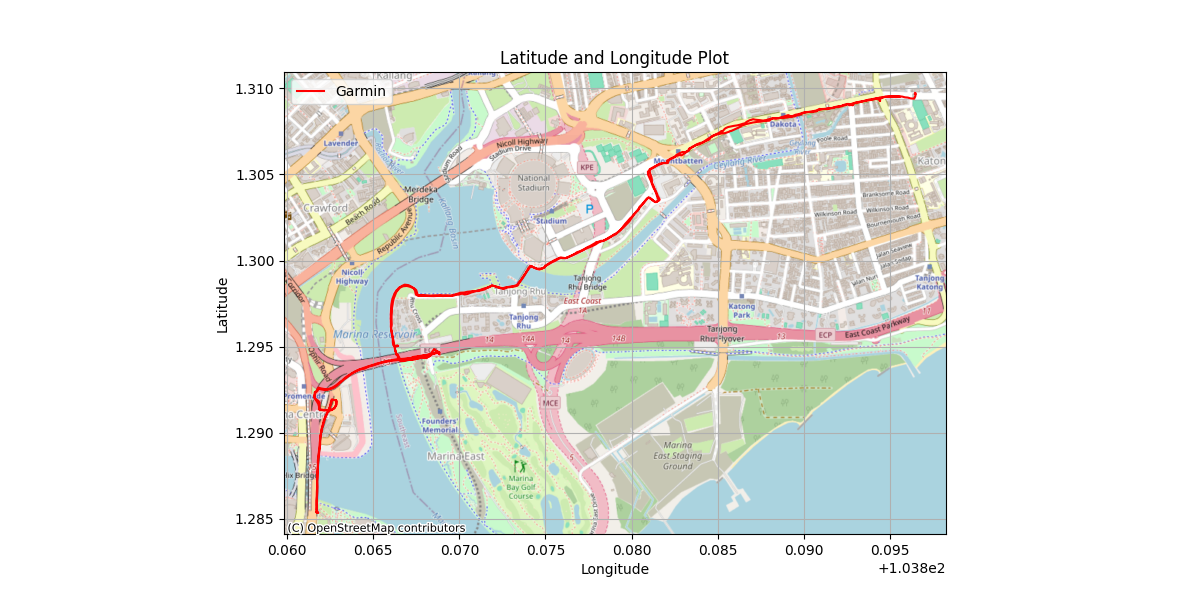
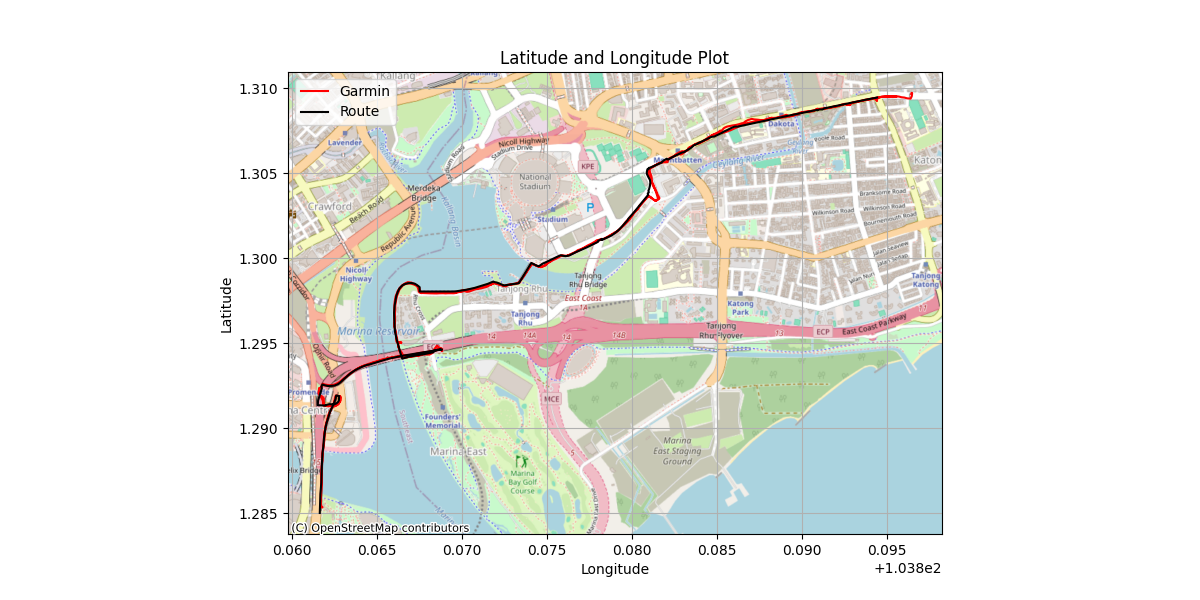
Make graphs more clear

Changed region(s): [[0.185, 0.12, 0.8017, 0.93], [0.6475, 0.9, 0.8017, 0.96], [0.5858, 0.9, 0.6167, 0.93]]

diff --git a/scripts/plots.py b/scripts/plots.py
@@ -6,6 +6,8 @@ import pandas as pd
 import matplotlib.pyplot as plt
 import contextily as ctx
 
+from pytz import timezone
+
 def parse_gpx(filepath):
   gpx_file = open(filepath, 'r')
   gpx = gpxpy.parse(gpx_file)
@@ -14,8 +16,9 @@ def parse_gpx(filepath):
   for track in gpx.tracks:
     for segment in track.segments:
       for point in segment.points:
+        time = point.time.astimezone(timezone('Asia/Singapore')) if point.time else None
         data.append({
-          'time': point.time,
+          'time': time,
           'latitude': point.latitude, 
           'longitude': point.longitude,
           'elevation': point.elevation,
@@ -25,9 +28,10 @@ def parse_gpx(filepath):
   
   return df
 
-def plot_location(df, label, color, output_dir, filename):
+def plot_location(df, route_df, label, color, output_dir, filename):
   plt.figure(figsize=(12, 6))
   plt.plot(df['longitude'], df['latitude'], color=color, linestyle='-', label=label)
+  plt.plot(route_df['longitude'], route_df['latitude'], color='black', linestyle='-', label='Route')
   ctx.add_basemap(plt.gca(), crs='EPSG:4326', source=ctx.providers.OpenStreetMap.Mapnik)
   plt.xlabel('Longitude')
   plt.ylabel('Latitude')
@@ -47,9 +51,18 @@ def main(args):
   polar_df = parse_gpx(input_dir + '/polar.gpx')
   route_df = parse_gpx(input_dir + '/route.gpx')
 
-  plot_location(polar_df, 'Polar', 'blue', output_dir, 'polar-location.png')
-  plot_location(garmin_df, 'Garmin', 'red', output_dir, 'garmin-location.png')
-  plot_location(route_df, 'Route', 'black', output_dir, 'route-location.png')
+  plot_location(polar_df, route_df, 'Polar', 'blue', output_dir, 'polar-location.png')
+  plot_location(garmin_df, route_df, 'Garmin', 'red', output_dir, 'garmin-location.png')
+
+  plt.figure(figsize=(12, 6))
+  plt.plot(polar_df['time'], polar_df['elevation'], color='blue', label='Polar')
+  plt.plot(garmin_df['time'], garmin_df['elevation'], color='red', label='Garmin')
+  plt.xlabel('Time')
+  plt.ylabel('Elevation (m)')
+  plt.title('Elevation over Time')
+  plt.legend()
+  plt.grid(True)
+  plt.savefig(output_dir + '/' + 'elevation.png')
 
 if __name__ == "__main__":
     main(sys.argv[1:])
